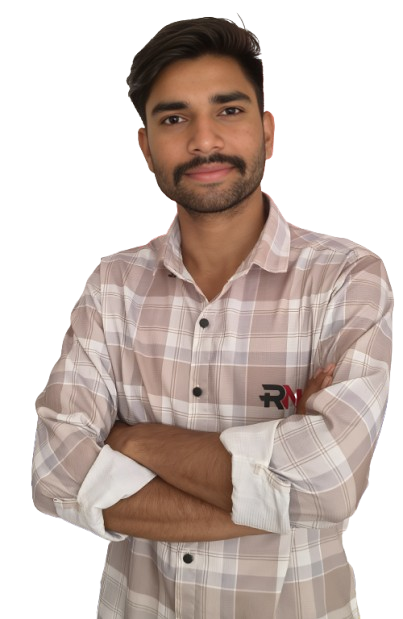
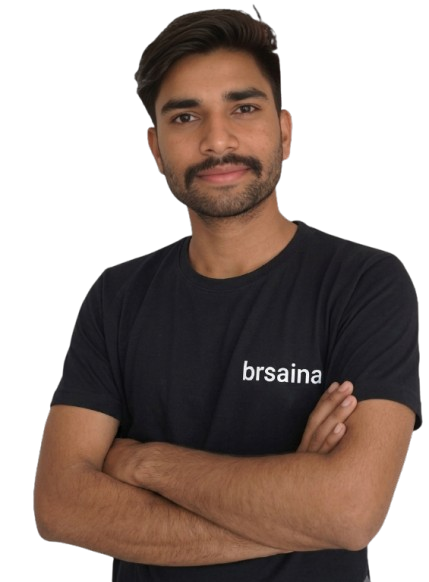
image changed

diff --git a/client/src/components/homecomponent/hero.css b/client/src/components/homecomponent/hero.css
@@ -171,6 +171,8 @@
   overflow: hidden;
   background: rgba(255, 255, 255, 0.94);
   box-shadow: 0 32px 80px rgba(20, 34, 89, 0.14);
+  /* Make the card taller on desktop for a stronger visual presence */
+  min-height: 600px;
   position: relative;
   transition: transform 0.25s ease, box-shadow 0.25s ease;
 }
@@ -194,7 +196,8 @@
 .hero-card-image {
   width: 100%;
   display: block;
-  aspect-ratio: 4 / 5;
+  aspect-ratio: 3.6/ 5;
+
   object-fit: cover;
 }
 
@@ -442,6 +445,8 @@
   .hero-card {
     width: 100%;
     max-width: 100%;
+    /* Reset min-height on small screens so content flows naturally */
+    min-height: unset;
   }
 
   .hero-card-image {
